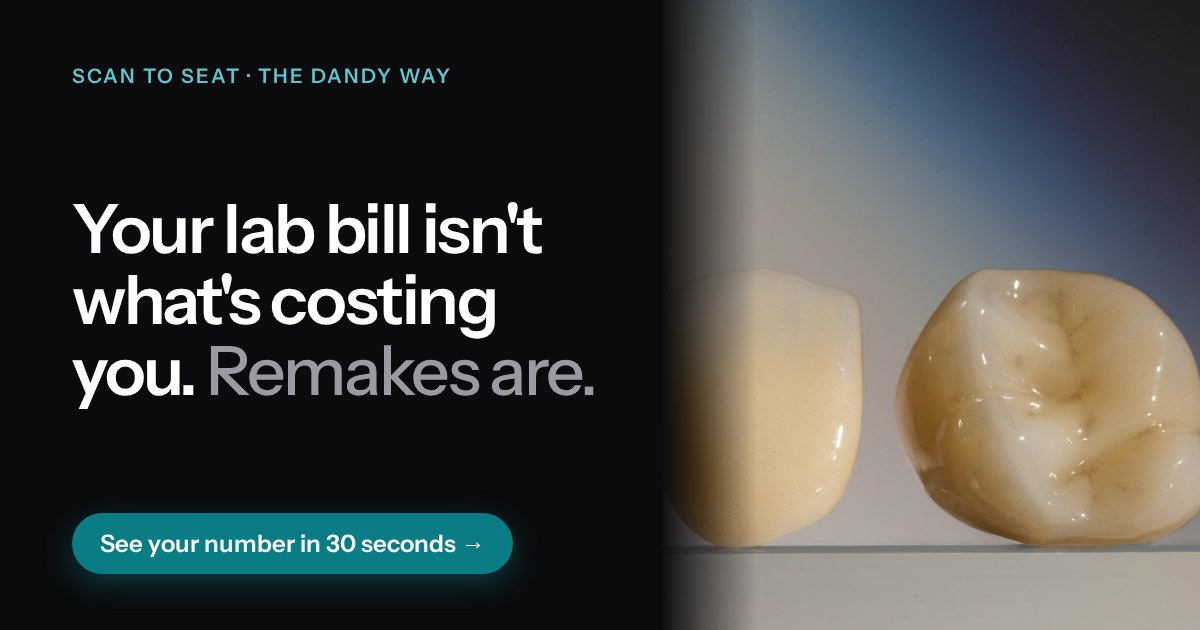
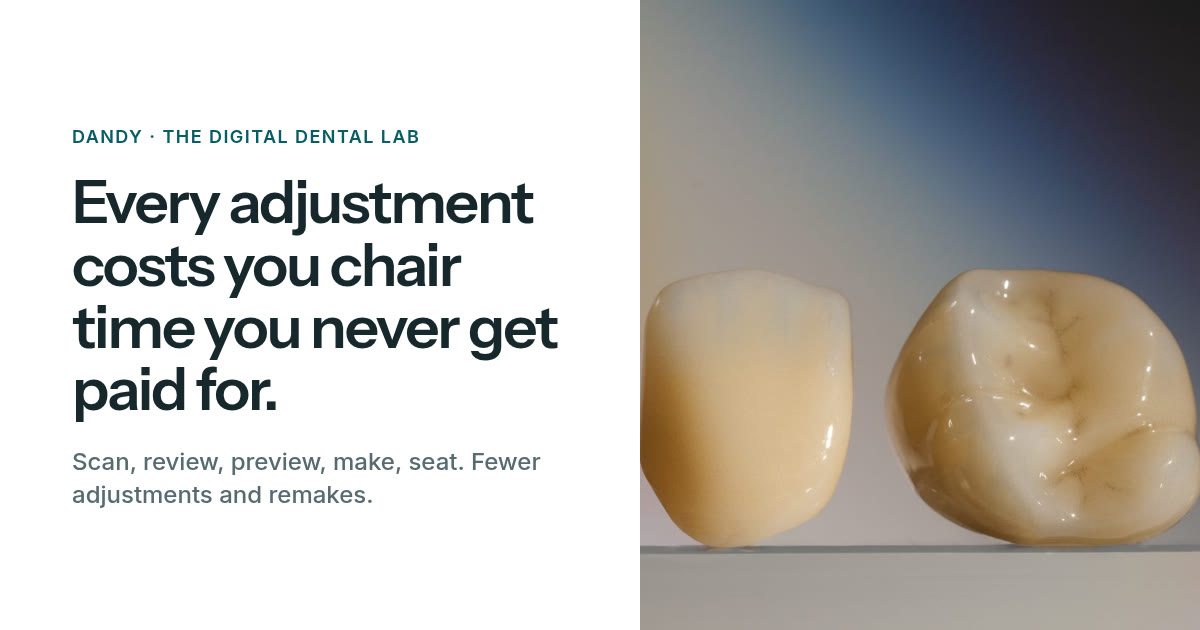
all/: review fixes: lab locations (Lehi, UT / Dallas, TX), shorter feature eyebrow, ES denture wording, new og-images (EN+ES)

diff --git a/all/es/index.html b/all/es/index.html
@@ -19,16 +19,16 @@
 <meta property="og:url" content="https://kristidillon.github.io/one-case/all/es/">
 <meta property="og:title" content="Cada ajuste le cuesta tiempo de sillón que nadie le paga.">
 <meta property="og:description" content="Vea lo que los ajustes le cuestan en tiempo de sillón y empiece con un caso de corona.">
-<meta property="og:image" content="https://kristidillon.github.io/one-case/all/og-image.jpg?v=1">
+<meta property="og:image" content="https://kristidillon.github.io/one-case/all/og-image-es.jpg?v=1">
 <meta property="og:image:width" content="1200">
 <meta property="og:image:height" content="630">
 <meta property="og:image:type" content="image/jpeg">
-<meta property="og:image:alt" content="Cada ajuste le cuesta tiempo de sillón que nadie le paga. — coronas de zirconia">
+<meta property="og:image:alt" content="Cada ajuste le cuesta tiempo de sillón que nadie le paga. Coronas de zirconia.">
 <meta name="twitter:card" content="summary_large_image">
 <meta name="twitter:title" content="Cada ajuste le cuesta tiempo de sillón que nadie le paga.">
 <meta name="twitter:description" content="Vea lo que los ajustes le cuestan en tiempo de sillón y empiece con un caso de corona.">
-<meta name="twitter:image" content="https://kristidillon.github.io/one-case/all/og-image.jpg?v=1">
-<meta name="twitter:image:alt" content="Cada ajuste le cuesta tiempo de sillón que nadie le paga. — coronas de zirconia">
+<meta name="twitter:image" content="https://kristidillon.github.io/one-case/all/og-image-es.jpg?v=1">
+<meta name="twitter:image:alt" content="Cada ajuste le cuesta tiempo de sillón que nadie le paga. Coronas de zirconia.">
 <link rel="preload" as="image" href="../media/scan-to-seat-poster-es-m.webp" media="(max-width: 600px)" type="image/webp" fetchpriority="high">
 <link rel="preload" as="image" href="../media/scan-to-seat-poster-es-768.webp" imagesrcset="../media/scan-to-seat-poster-es-768.webp 768w, ../media/scan-to-seat-poster-es.webp 1280w" imagesizes="(max-width: 1028px) 100vw, 980px" media="(min-width: 601px)" type="image/webp" fetchpriority="high">
 <link rel="preconnect" href="https://fonts.googleapis.com">
@@ -395,7 +395,7 @@ input[type=range]:active::-webkit-slider-thumb{transform:scale(1.15);box-shadow:
   <div class="wrap">
     <div class="head">
       <h2>Hecho en EE.&nbsp;UU., por un solo equipo.</h2>
-      <p class="sub">Laboratorios en Utah y Texas. Indianápolis, próximamente.</p>
+      <p class="sub">Laboratorios en Lehi (Utah) y Dallas (Texas). Indianápolis abrirá pronto.</p>
     </div>
     <div class="proof">
       <div><div class="fig">&lt;1 min</div><div class="cap">respuesta del chat del laboratorio</div></div>
@@ -410,7 +410,7 @@ input[type=range]:active::-webkit-slider-thumb{transform:scale(1.15);box-shadow:
 <section id="preview" aria-labelledby="previewTitle">
   <div class="wrap">
     <div class="head">
-      <div class="eyebrow">Vista previa del diseño, revisión del escaneo, chat</div>
+      <div class="eyebrow">Antes de la fabricación</div>
       <h2 id="previewTitle">Véalo antes de que se fabrique.</h2>
       <p class="sub">Detecte el problema en la pantalla, no en el sillón. Usted mantiene el control.</p>
     </div>
@@ -454,7 +454,7 @@ input[type=range]:active::-webkit-slider-thumb{transform:scale(1.15);box-shadow:
       </div>
       <div class="acc">
         <h3><button type="button" class="acc-btn" id="acc-b3" aria-expanded="false" aria-controls="acc-p3"><span>La prótesis total en 2 citas</span><span class="pm" aria-hidden="true"></span></button></h3>
-        <div class="acc-panel" id="acc-p3" role="region" aria-labelledby="acc-b3"><div class="acc-clip"><div class="acc-body"><p>Escanee en la primera cita. Coloque la prótesis terminada en la segunda.</p><div class="ytl" data-yt="aoDJ9Y26Ojw" data-title="Caso clínico: prótesis total en 2 citas (video en inglés)"><button type="button" aria-label="Reproducir video en YouTube (en inglés): caso clínico de prótesis total en 2 citas"><img src="https://i.ytimg.com/vi_webp/aoDJ9Y26Ojw/maxresdefault.webp" alt="" width="1280" height="720" loading="lazy" decoding="async"><span class="play" aria-hidden="true"><svg viewBox="0 0 24 24" fill="currentColor"><path d="M7 4.5v15l12.5-7.5z"/></svg></span><span class="cap">Caso clínico: prótesis total en 2 citas (video en inglés)</span></button></div><ol class="flow" aria-label="La diferencia Dandy: un solo flujo de trabajo digital conectado"><li><span class="ic" aria-hidden="true"><svg viewBox="0 0 24 24" fill="none" stroke="currentColor" stroke-width="1.8" stroke-linecap="round" stroke-linejoin="round"><path d="M4 8V5a1 1 0 011-1h3M16 4h3a1 1 0 011 1v3M20 16v3a1 1 0 01-1 1h-3M8 20H5a1 1 0 01-1-1v-3"/><path d="M4 12h16"/></svg></span><b>Escaneo</b><span>El escaneo del rodete de mordida = impresión final.</span></li><li><span class="ic" aria-hidden="true"><svg viewBox="0 0 24 24" fill="none" stroke="currentColor" stroke-width="1.8" stroke-linecap="round" stroke-linejoin="round"><rect x="5" y="3.5" width="14" height="17" rx="2"/><path d="M9 8h6M9 12h6M9 16h4"/></svg></span><b>Orden</b><span>Impresa o fresada.</span></li><li><span class="ic" aria-hidden="true"><svg viewBox="0 0 24 24" fill="none" stroke="currentColor" stroke-width="1.8" stroke-linecap="round" stroke-linejoin="round"><path d="M2.5 12s3.5-6.5 9.5-6.5 9.5 6.5 9.5 6.5-3.5 6.5-9.5 6.5S2.5 12 2.5 12z"/><path d="M9.5 12l1.8 1.8 3.4-3.6"/></svg></span><b>Aprobación</b><span>Revise el enfilado en Design Preview.</span></li><li><span class="ic" aria-hidden="true"><svg viewBox="0 0 24 24" fill="none" stroke="currentColor" stroke-width="1.8" stroke-linecap="round" stroke-linejoin="round"><path d="M12 21s-6.5-5.6-6.5-11a6.5 6.5 0 0113 0c0 5.4-6.5 11-6.5 11z"/><circle cx="12" cy="10" r="2.3"/></svg></span><b>Seguimiento</b><span>Siga cada caso en tiempo real.</span></li><li><span class="ic" aria-hidden="true"><svg viewBox="0 0 24 24" fill="none" stroke="currentColor" stroke-width="1.8" stroke-linecap="round" stroke-linejoin="round"><path d="M3 7.5l9-4.5 9 4.5v9L12 21l-9-4.5z"/><path d="M3 7.5l9 4.5 9-4.5M12 12v9"/></svg></span><b>Entrega</b><span>El 90% de las prótesis se entregan en la 2.ª cita.</span></li></ol><div class="rem"><figure><img src="../media/denture-scan-intaglio.webp?v=2" alt="Software de escaneo de Dandy capturando en 3D una dentadura actual, con instrucciones para escanear la dentadura con el paladar y la superficie interna" width="1162" height="566" loading="lazy" decoding="async"><figcaption>Escanee la dentadura actual, incluido el paladar y la superficie interna.</figcaption></figure><figure><img src="../media/wax-rims.webp" alt="Rodetes de cera rosados superior e inferior para registrar la mordida y el montaje de los dientes" width="422" height="280" loading="lazy" decoding="async"><figcaption>Rodetes de cera para la mordida y el montaje, cuando los necesite.</figcaption></figure></div><p class="rem-note">Dentaduras en 2 a 3 citas, con menos ajustes y repeticiones.</p><p class="links"><a class="link" href="#acc-p3" data-play>Ver el caso clínico<span class="arr" aria-hidden="true">&rarr;</span></a><a class="link" href="#lead" data-lead="2 Appt Denture workflow" data-lead-es="Prótesis total en 2 citas">Pida el recorrido completo del caso<span class="arr" aria-hidden="true">&rarr;</span></a></p></div></div></div>
+        <div class="acc-panel" id="acc-p3" role="region" aria-labelledby="acc-b3"><div class="acc-clip"><div class="acc-body"><p>Escanee en la primera cita. Coloque la prótesis terminada en la segunda.</p><div class="ytl" data-yt="aoDJ9Y26Ojw" data-title="Caso clínico: prótesis total en 2 citas (video en inglés)"><button type="button" aria-label="Reproducir video en YouTube (en inglés): caso clínico de prótesis total en 2 citas"><img src="https://i.ytimg.com/vi_webp/aoDJ9Y26Ojw/maxresdefault.webp" alt="" width="1280" height="720" loading="lazy" decoding="async"><span class="play" aria-hidden="true"><svg viewBox="0 0 24 24" fill="currentColor"><path d="M7 4.5v15l12.5-7.5z"/></svg></span><span class="cap">Caso clínico: prótesis total en 2 citas (video en inglés)</span></button></div><ol class="flow" aria-label="La diferencia Dandy: un solo flujo de trabajo digital conectado"><li><span class="ic" aria-hidden="true"><svg viewBox="0 0 24 24" fill="none" stroke="currentColor" stroke-width="1.8" stroke-linecap="round" stroke-linejoin="round"><path d="M4 8V5a1 1 0 011-1h3M16 4h3a1 1 0 011 1v3M20 16v3a1 1 0 01-1 1h-3M8 20H5a1 1 0 01-1-1v-3"/><path d="M4 12h16"/></svg></span><b>Escaneo</b><span>El escaneo del rodete de mordida = impresión final.</span></li><li><span class="ic" aria-hidden="true"><svg viewBox="0 0 24 24" fill="none" stroke="currentColor" stroke-width="1.8" stroke-linecap="round" stroke-linejoin="round"><rect x="5" y="3.5" width="14" height="17" rx="2"/><path d="M9 8h6M9 12h6M9 16h4"/></svg></span><b>Orden</b><span>Impresa o fresada.</span></li><li><span class="ic" aria-hidden="true"><svg viewBox="0 0 24 24" fill="none" stroke="currentColor" stroke-width="1.8" stroke-linecap="round" stroke-linejoin="round"><path d="M2.5 12s3.5-6.5 9.5-6.5 9.5 6.5 9.5 6.5-3.5 6.5-9.5 6.5S2.5 12 2.5 12z"/><path d="M9.5 12l1.8 1.8 3.4-3.6"/></svg></span><b>Aprobación</b><span>Revise el enfilado en Design Preview.</span></li><li><span class="ic" aria-hidden="true"><svg viewBox="0 0 24 24" fill="none" stroke="currentColor" stroke-width="1.8" stroke-linecap="round" stroke-linejoin="round"><path d="M12 21s-6.5-5.6-6.5-11a6.5 6.5 0 0113 0c0 5.4-6.5 11-6.5 11z"/><circle cx="12" cy="10" r="2.3"/></svg></span><b>Seguimiento</b><span>Siga cada caso en tiempo real.</span></li><li><span class="ic" aria-hidden="true"><svg viewBox="0 0 24 24" fill="none" stroke="currentColor" stroke-width="1.8" stroke-linecap="round" stroke-linejoin="round"><path d="M3 7.5l9-4.5 9 4.5v9L12 21l-9-4.5z"/><path d="M3 7.5l9 4.5 9-4.5M12 12v9"/></svg></span><b>Entrega</b><span>El 90% de las prótesis se entregan en la 2.ª cita.</span></li></ol><div class="rem"><figure><img src="../media/denture-scan-intaglio.webp?v=2" alt="Software de escaneo de Dandy capturando en 3D una dentadura actual, con instrucciones para escanear la dentadura con el paladar y la superficie interna" width="1162" height="566" loading="lazy" decoding="async"><figcaption>Escanee la dentadura actual, incluido el paladar y la superficie interna.</figcaption></figure><figure><img src="../media/wax-rims.webp" alt="Rodetes de cera rosados superior e inferior para registrar la mordida y el montaje de los dientes" width="422" height="280" loading="lazy" decoding="async"><figcaption>Rodetes de cera para la mordida y el montaje, cuando los necesite.</figcaption></figure></div><p class="rem-note">Prótesis totales en 2 a 3 citas, con menos ajustes y repeticiones.</p><p class="links"><a class="link" href="#acc-p3" data-play>Ver el caso clínico<span class="arr" aria-hidden="true">&rarr;</span></a><a class="link" href="#lead" data-lead="2 Appt Denture workflow" data-lead-es="Prótesis total en 2 citas">Pida el recorrido completo del caso<span class="arr" aria-hidden="true">&rarr;</span></a></p></div></div></div>
       </div>
       <div class="acc">
         <h3><button type="button" class="acc-btn" id="acc-b7" aria-expanded="false" aria-controls="acc-p7"><span>Coronas en 5 días</span><span class="pm" aria-hidden="true"></span></button></h3>

diff --git a/all/index.html b/all/index.html
@@ -18,16 +18,16 @@
 <meta property="og:url" content="https://kristidillon.github.io/one-case/all/">
 <meta property="og:title" content="Every adjustment costs you chair time you never get paid for.">
 <meta property="og:description" content="See what adjustments cost you in chair time, then start with one crown case.">
-<meta property="og:image" content="https://kristidillon.github.io/one-case/all/og-image.jpg?v=1">
+<meta property="og:image" content="https://kristidillon.github.io/one-case/all/og-image.jpg?v=2">
 <meta property="og:image:width" content="1200">
 <meta property="og:image:height" content="630">
 <meta property="og:image:type" content="image/jpeg">
-<meta property="og:image:alt" content="Every adjustment costs you chair time you never get paid for. — zirconia crowns">
+<meta property="og:image:alt" content="Every adjustment costs you chair time you never get paid for. Zirconia crowns.">
 <meta name="twitter:card" content="summary_large_image">
 <meta name="twitter:title" content="Every adjustment costs you chair time you never get paid for.">
 <meta name="twitter:description" content="See what adjustments cost you in chair time, then start with one crown case.">
-<meta name="twitter:image" content="https://kristidillon.github.io/one-case/all/og-image.jpg?v=1">
-<meta name="twitter:image:alt" content="Every adjustment costs you chair time you never get paid for. — zirconia crowns">
+<meta name="twitter:image" content="https://kristidillon.github.io/one-case/all/og-image.jpg?v=2">
+<meta name="twitter:image:alt" content="Every adjustment costs you chair time you never get paid for. Zirconia crowns.">
 <link rel="preload" as="image" href="media/scan-to-seat-poster-m.webp" media="(max-width: 600px)" type="image/webp" fetchpriority="high">
 <link rel="preload" as="image" href="media/scan-to-seat-poster-768.webp" imagesrcset="media/scan-to-seat-poster-768.webp 768w, media/scan-to-seat-poster.webp 1280w" imagesizes="(max-width: 1028px) 100vw, 980px" media="(min-width: 601px)" type="image/webp" fetchpriority="high">
 <link rel="preconnect" href="https://fonts.googleapis.com">
@@ -394,7 +394,7 @@ input[type=range]:active::-webkit-slider-thumb{transform:scale(1.15);box-shadow:
   <div class="wrap">
     <div class="head">
       <h2>Made in the USA, by one team.</h2>
-      <p class="sub">Labs in Utah and Texas. Indianapolis coming soon.</p>
+      <p class="sub">Labs in Lehi, UT and Dallas, TX. Indianapolis opening soon.</p>
     </div>
     <div class="proof">
       <div><div class="fig">&lt;1 min</div><div class="cap">lab chat answers</div></div>
@@ -409,7 +409,7 @@ input[type=range]:active::-webkit-slider-thumb{transform:scale(1.15);box-shadow:
 <section id="preview" aria-labelledby="previewTitle">
   <div class="wrap">
     <div class="head">
-      <div class="eyebrow">Design Preview, live scan review, lab chat</div>
+      <div class="eyebrow">Before fabrication</div>
       <h2 id="previewTitle">See it before it&rsquo;s made.</h2>
       <p class="sub">Catch it on screen, not in the chair. You stay in control.</p>
     </div>
